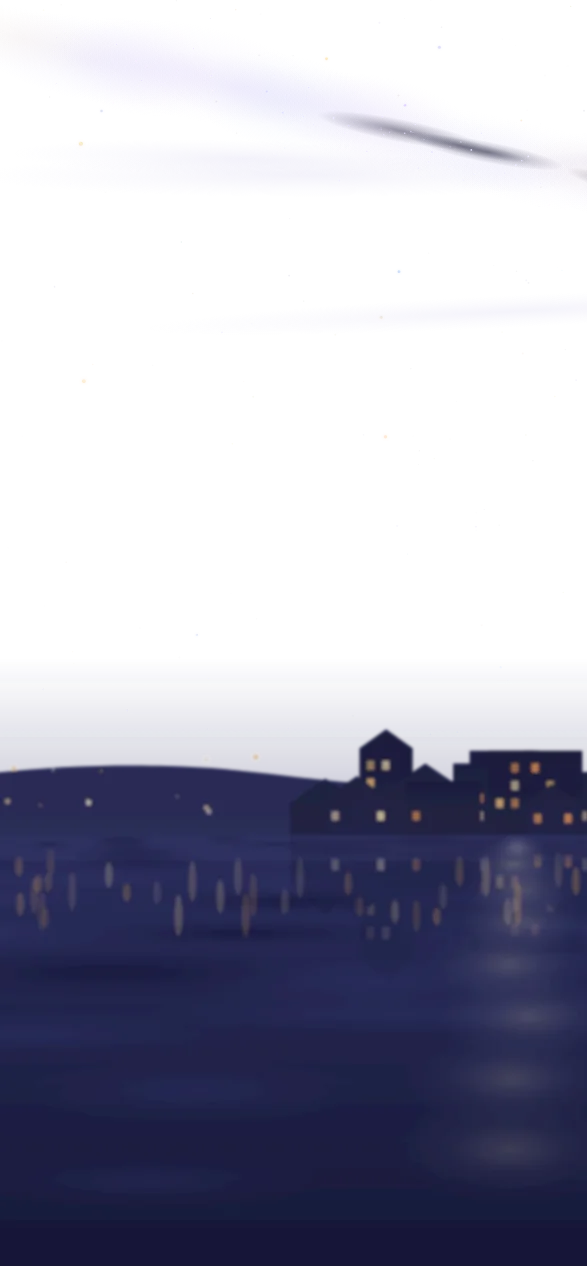
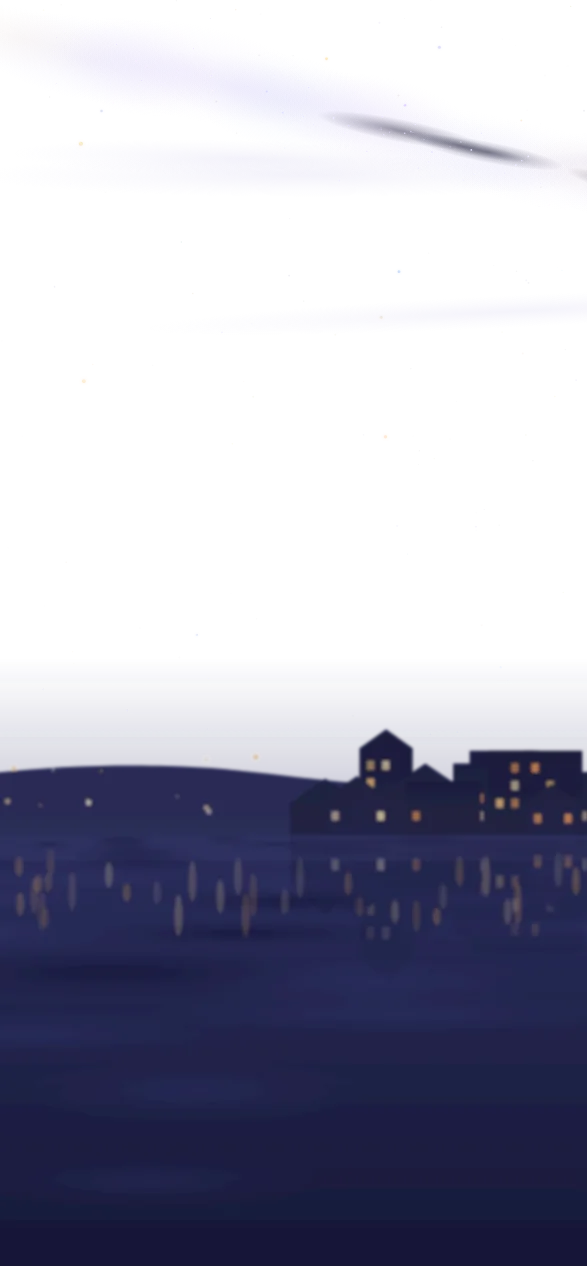
夜の庭の月を本当の満ち欠けに
Claude-Session: https://claude.ai/code/session_01EHtmNVvLo6L45VFzzqfGpi

Changed region(s): [[0.8279, 0.6469, 0.9506, 0.8626], [0.8279, 0.8934, 0.9199, 0.9242]]

diff --git a/assets/js/nature.js b/assets/js/nature.js
@@ -593,8 +593,17 @@ export function farewellSVG() {
   return `<svg class="fw-land" viewBox="0 0 200 40" preserveAspectRatio="xMidYMax slice" aria-hidden="true">${back}${cabin}${front}<rect x="-5" y="40.5" width="210" height="5" fill="#0a0c20"/></svg><svg class="fw-anim" viewBox="0 0 200 40" preserveAspectRatio="xMidYMax slice" aria-hidden="true">${anim}</svg>`;
 }
 // 月（画面に直接置く、ぼやけない月）。viewBox は -50〜50、月の半径は 10。kind：'full' 満月 / 'crescent' 三日月（欠けた側も地球照でほのかに見える）
+// 今夜の本当の月の満ち欠け（0 = 新月、.5 = 満月）。基準の新月（2000-01-06 18:14 UTC）からの日数を、平均の朔望月で割った余り
+export function moonAge(date = new Date()) {
+  const days = (date.getTime() - Date.UTC(2000, 0, 6, 18, 14)) / 864e5;
+  return ((days / 29.530588853) % 1 + 1) % 1;
+}
+// 今夜の月の光っている割合（0 = 新月、1 = 満月）
+export const moonLit = (date) => (1 - Math.cos(moonAge(date) * Math.PI * 2)) / 2;
 export function moonSVG(kind = 'full', halo = false) {
   const id = `mn${gid++}`;
+  // 'real'：今夜の本当の形。光っている側は、日本から見た向き（満ちていくときは右、欠けていくときは左）
+  const age = kind === 'real' ? moonAge() : null, lit = age == null ? 1 : (1 - Math.cos(age * Math.PI * 2)) / 2;
   const maria = [[-3.2, -3.4, 3.4, 2.5, 20], [2.6, -2.4, 2.6, 2.1, -15], [.8, 3, 3.3, 2.3, 10], [-4.4, 2.4, 1.9, 2.8, 0], [5, 1.4, 1.5, 1.9, 30], [-.8, -6.6, 1.6, 1, 0]];
   const craters = [[-5.8, -5.2, .55], [4.2, 5.6, .7], [-2, 6.8, .45], [6.4, -3.8, .4], [-6.9, 1, .42], [2.2, -7, .35]];
   const disc = `<circle r="10" fill="url(#${id}b)"/><g filter="url(#${id}s)">${maria.map(([x, y, rx, ry, a]) => `<ellipse cx="${x}" cy="${y}" rx="${rx}" ry="${ry}" transform="rotate(${a} ${x} ${y})" fill="#c9bb98" opacity=".55"/>`).join('')}</g>`
@@ -605,12 +614,22 @@ export function moonSVG(kind = 'full', halo = false) {
     + `<radialGradient id="${id}g"><stop offset=".18" stop-color="#fff3d2" stop-opacity=".5"/><stop offset=".32" stop-color="#fff0cc" stop-opacity=".18"/><stop offset=".6" stop-color="#e8e4ff" stop-opacity=".06"/><stop offset="1" stop-color="#e8e4ff" stop-opacity="0"/></radialGradient>`
     + `<radialGradient id="${id}h"><stop offset=".84" stop-color="#fff" stop-opacity="0"/><stop offset=".88" stop-color="#ffd6c4" stop-opacity=".07"/><stop offset=".905" stop-color="#fff6e6" stop-opacity=".09"/><stop offset=".935" stop-color="#cfe0ff" stop-opacity=".05"/><stop offset=".97" stop-color="#cfe0ff" stop-opacity="0"/></radialGradient>`
     + `<filter id="${id}s" x="-20%" y="-20%" width="140%" height="140%"><feGaussianBlur stdDeviation=".7"/></filter><filter id="${id}t" x="-20%" y="-20%" width="140%" height="140%"><feGaussianBlur stdDeviation=".55"/></filter>`
-    + (kind === 'crescent' ? `<mask id="${id}m"><circle r="10.2" fill="#fff"/><circle cx="4" cy="-2.7" r="8.9" fill="#000" filter="url(#${id}t)"/></mask>` : '') + '</defs>';
-  const glow = `<circle r="50" fill="url(#${id}g)"${kind === 'crescent' ? ' opacity=".6"' : ''}/>` + (halo ? `<circle r="46" fill="url(#${id}h)"/>` : '');
-  const body = kind === 'crescent'
-    ? `<g opacity=".2"><circle r="10" fill="#9aa4cf"/>${maria.map(([x, y, rx, ry, a]) => `<ellipse cx="${x}" cy="${y}" rx="${rx}" ry="${ry}" transform="rotate(${a} ${x} ${y})" fill="#6f78a6" opacity=".5"/>`).join('')}</g><g mask="url(#${id}m)">${disc}</g>`
+    + (kind === 'crescent' ? `<mask id="${id}m"><circle r="10.2" fill="#fff"/><circle cx="4" cy="-2.7" r="8.9" fill="#000" filter="url(#${id}t)"/></mask>` : '')
+    + (age != null ? `<mask id="${id}m"><path d="${phasePath(age, 10.15)}" fill="#fff" filter="url(#${id}t)"/></mask>` : '') + '</defs>';
+  // 光のにじみは、光っている面の広さに合わせて（新月に近いほど、ほとんど光らない）
+  const gk = kind === 'crescent' ? .6 : age != null ? .08 + lit * .92 : 1;
+  const glow = `<circle r="50" fill="url(#${id}g)"${gk < 1 ? ` opacity="${gk.toFixed(2)}"` : ''}/>` + (halo ? `<circle r="46" fill="url(#${id}h)"/>` : '');
+  const body = kind === 'crescent' || age != null
+    ? `<g opacity="${age != null ? n2(.05 + .15 * Math.min(1, lit * 8)) : .2}"><circle r="10" fill="#9aa4cf"/>${maria.map(([x, y, rx, ry, a]) => `<ellipse cx="${x}" cy="${y}" rx="${rx}" ry="${ry}" transform="rotate(${a} ${x} ${y})" fill="#6f78a6" opacity=".5"/>`).join('')}</g><g mask="url(#${id}m)">${disc}</g>`
     : disc;
   return `<svg viewBox="-50 -50 100 100" aria-hidden="true">${defs}${glow}${body}</svg>`;
+}
+// 月の光っている部分の形：半円（満ちていくときは右半分）と、明暗の境め（楕円の半分）でかこむ
+function phasePath(age, r) {
+  const waxing = age < .5, k = Math.cos(age * Math.PI * 2), rx = Math.abs(k) * r, crescent = k > 0;
+  // 外側の半円：上 → 右 → 下（満ちていく）／上 → 左 → 下（欠けていく）。境めは下 → 上へ、三日月なら光っている側へ、半月より太ければ反対側へふくらむ
+  const outer = waxing ? 1 : 0, term = waxing === crescent ? 0 : 1;
+  return `M0 ${-r}A${r} ${r} 0 0 ${outer} 0 ${r}A${n2(rx)} ${r} 0 0 ${term} 0 ${-r}Z`;
 }
 function strands(x0, x1, y, sag, n) {
   let s = `<path d="M${n1(x0)} ${n1(y)}Q${n1((x0 + x1) / 2)} ${n1(y + sag * 2)} ${n1(x1)} ${n1(y)}" stroke="#1a1410" stroke-width=".2" fill="none"/>`;
@@ -1981,7 +2000,7 @@ export function sceneNight(W, stops) {
   const mx = fw * .3;
   const SKY = nightSky(-5, fw + 5, 0, hz - 8, { milky: [fw * .02, 3, fw * .98, 30, 4.5] });
   const skyArt = SKY.svg + wisps(mx - 24, mx + 36, 9, 30, 6);
-  const skyDom = { moon: { x: mx, y: 16, r: 4.5, kind: 'crescent' }, bright: SKY.bright.filter(([x, y]) => Math.hypot(x - mx, y - 16) > 12) };
+  const skyDom = { moon: { x: mx, y: 16, r: 4.5, kind: 'real' }, bright: SKY.bright.filter(([x, y]) => Math.hypot(x - mx, y - 16) > 12) };
   far += `<path d="M-5 106L-5 ${hz - 4}${smoothD(Array.from({ length: 9 }, (_, i) => [-5 + (fw + 10) * i / 8, hz - 6 + R(-3, 2)]))}L${n1(fw + 5)} 106Z" fill="#282c55"/>`;
   for (let i = 0; i < fw / 1.4; i++) far += `<circle cx="${n1(R(0, fw))}" cy="${n1(R(hz - 7, hz - 1))}" r="${n1(R(.1, .22))}" fill="${pick(['#ffd79a', '#ffb45a', '#fff1d0'])}" opacity="${n1(R(.4, .9) * 100) / 100}"/>`;
   let towns = ''; // 水面に逆さに映すので、町の並びをとっておく
@@ -2003,7 +2022,8 @@ export function sceneNight(W, stops) {
   { const mk = `rf${gid++}`, [mg, md] = lgrad([[0, '#ffffff', .75], [.35, '#ffffff', .35], [1, '#ffffff', 0]]);
     far += `<defs>${md}<mask id="${mk}" maskUnits="userSpaceOnUse" x="-5" y="${hz}" width="${n1(fw + 10)}" height="16"><rect x="-5" y="${hz}" width="${n1(fw + 10)}" height="16" fill="url(#${mg})"/></mask></defs><g mask="url(#${mk})" opacity=".55"><g transform="translate(0 ${n1(hz * 2.35 + .2)}) scale(1 -1.35)">${towns}</g></g>`; }
   // 月明かりの反射：月の真下に、淡い黄みの光が水平線から手前へひろがる（白く強くしない）
-  far += sunColumn(mx, hz, 90, ['#efe3bd', '#b9b6d2', '#8e94c4'], .6);
+  // 月の光の道は、焼かずに画面に直接置く（今夜の月の明るさに合わせて濃さを変えるので。新月の夜はほとんど見えない）
+  skyDom.column = { x: mx, hz, svg: sunColumn(mx, hz, 90, ['#efe3bd', '#b9b6d2', '#8e94c4'], .6) };
   // 町の灯りの映り込み：線ではなく、縦に少し伸びたぼけた光
   for (let i = 0; i < fw / 2.2; i++) { const x = R(0, fw), y = R(hz + .8, hz + 6), l = R(.6, 1.6), c = pick(['#ffd79a', '#ffb45a']), o = R(.25, .55); far += `<ellipse cx="${n1(x)}" cy="${n1(y + l * .7)}" rx=".3" ry="${n1(l * 1.1)}" fill="${c}" opacity="${n2(o * .45)}"/>`; }
   for (let k = 0; k < Math.max(2, Math.round(fw / 60)); k++) { const x = R(fw * .05, fw * .95), y = hz + R(2.5, 5); far += `<path d="M${n1(x - 2)} ${n1(y)}h4l-.6 .8h-2.8Z" fill="#141733"/><path d="M${n1(x)} ${n1(y)}v-3" stroke="#141733" stroke-width=".2"/><circle cx="${n1(x)}" cy="${n1(y - 3)}" r=".25" fill="#ffe7a8"/>` + rglow(x, y - 3, 2, '#ffe7a8', .35); }

diff --git a/assets/js/museum.js b/assets/js/museum.js
@@ -6,7 +6,7 @@ import { createRadio } from './radio.js';
 import { paceScroll } from './pace.js';
 import PRE_MANIFEST from './pre-manifest.js';
 import WORK_COLORS from './work-colors.js';
-import { SCENES, FACTORS, sceneForest, curtainLeaves, LEAF_DEFS, ENTRANCE_PATH, pressedSpecimen, GRADES, gradeColors, moonSVG, nightSky, farewellSVG, swimmerSVG, ferrisSVG, fireSVG, windowSnowSVG, flyerSVG, beamSVG, FERRIS_N } from './nature.js';
+import { SCENES, FACTORS, sceneForest, curtainLeaves, LEAF_DEFS, ENTRANCE_PATH, pressedSpecimen, GRADES, gradeColors, moonSVG, moonLit, nightSky, farewellSVG, swimmerSVG, ferrisSVG, fireSVG, windowSnowSVG, flyerSVG, beamSVG, FERRIS_N } from './nature.js';
 import { createBeat } from './beat.js';
 import { PROPS, ROCK } from './street.js';
 import { introSVG } from './intros.js';
@@ -81,6 +81,8 @@ const svgImg = (w, body, cls = '') => {
 };
 // 明るい星（またたく）と月は、焼いた絵ではなく画面に直接置く（どの画面でもくっきり）
 const skyDomHTML = (sd) => !sd ? '' : `<div class="skydom" aria-hidden="true">${sd.bright.map(([x, y, sz, c, d]) => `<i class="sky-star" style="left:${(x * U).toFixed(1)}px;top:${(y * U).toFixed(1)}px;width:${(sz * U).toFixed(1)}px;--c:${c};animation-delay:-${d}s"></i>`).join('')}`
+  // 海に映る月の光の道（今夜の月の明るさで濃さが変わる）
+  + (sd.column ? `<svg class="moon-column" viewBox="${n2(sd.column.x - 12)} ${n2(sd.column.hz)} 24 ${n2(100 - sd.column.hz)}" preserveAspectRatio="none" style="left:${((sd.column.x - 12) * U).toFixed(1)}px;top:${(sd.column.hz * U).toFixed(1)}px;width:${(24 * U).toFixed(1)}px;height:${((100 - sd.column.hz) * U).toFixed(1)}px;opacity:${(.06 + moonLit() * .94).toFixed(2)}">${gradeColors(sd.column.svg, GRADE)}</svg>` : '')
   + (sd.moon ? `<div class="sky-moon" style="left:${((sd.moon.x - sd.moon.r * 5) * U).toFixed(1)}px;top:${((sd.moon.y - sd.moon.r * 5) * U).toFixed(1)}px;width:${(sd.moon.r * 10 * U).toFixed(1)}px">${moonSVG(sd.moon.kind, sd.moon.halo)}</div>` : '') + '</div>';
 // 葉のカーテンの 1 かたまり（正方形の絵）
 // 葉のかたまりの画像は、正方形のままだと四隅の透明なところが広い。描いた葉の外形ぎりぎりまで切り詰めて、画像を小さくする（見た目は同じ）
@@ -721,7 +723,7 @@ function buildLiving(r) {
   if (D.sunpath) {
     const [x, hz] = D.sunpath, n = COARSE ? 9 : 14;
     const bars = Array.from({ length: n }, (_, i) => { const t = i / (n - 1), w = 14 + t * 76; return `<i style="top:${(t * t * 92).toFixed(1)}%;left:${(50 - w / 2 + Math.sin(i * 2.1) * t * 6).toFixed(1)}%;width:${w.toFixed(1)}%;height:${(1.1 + t * 2.6).toFixed(2)}vh;margin-top:-${(.5 + t * 1.3).toFixed(2)}vh;animation-duration:${(2.6 + (i * 1.7) % 2.4).toFixed(1)}s;animation-delay:${(-(i * .83) % 3).toFixed(2)}s"></i>`; }).join('');
-    S.insertAdjacentHTML('beforeend', gradeColors(`<div class="living sunpath${D.moonpath ? ' moon' : ''}" style="left:${((x - 9) * U).toFixed(1)}px;top:${((hz + .4) * U).toFixed(1)}px;width:18vh;height:17vh">${bars}</div>`, gradeOf(r.room.scene)));
+    S.insertAdjacentHTML('beforeend', gradeColors(`<div class="living sunpath${D.moonpath ? ' moon' : ''}" style="left:${((x - 9) * U).toFixed(1)}px;top:${((hz + .4) * U).toFixed(1)}px;width:18vh;height:17vh${D.skyDom?.moon?.kind === 'real' ? `;opacity:${(.05 + moonLit() * .95).toFixed(2)}` : ''}">${bars}</div>`, gradeOf(r.room.scene)));
   }
   // 夕凪の浜：海の面のゆらぎ。空を映す明るいゆらぎと、うねりの暗い帯が、ゆっくり寄っては離れて明滅する（奥ほど細く短く、ゆっくり）
   if (D.sunpath) {

diff --git a/assets/css/museum.css b/assets/css/museum.css
@@ -755,6 +755,7 @@ body.grain-off #grain, body.viewing #grain { opacity: 0; visibility: hidden; }
 .sky-star::after { transform: rotate(90deg); }
 @keyframes starTw { 0%, 100% { opacity: .55; transform: translate(-50%, -50%) scale(.8); } 50% { opacity: 1; transform: translate(-50%, -50%) scale(1); } }
 .sky-moon { position: absolute; aspect-ratio: 1; }
+.moon-column { position: absolute; overflow: visible; pointer-events: none; }
 .sky-moon svg { display: block; width: 100%; height: 100%; }
 @media (prefers-reduced-motion: reduce) { .sky-star { animation: none; } }
 /* 小屋の前の雪景色（An0n の絵）と、扉の脇に立てかけたスノーボード */
